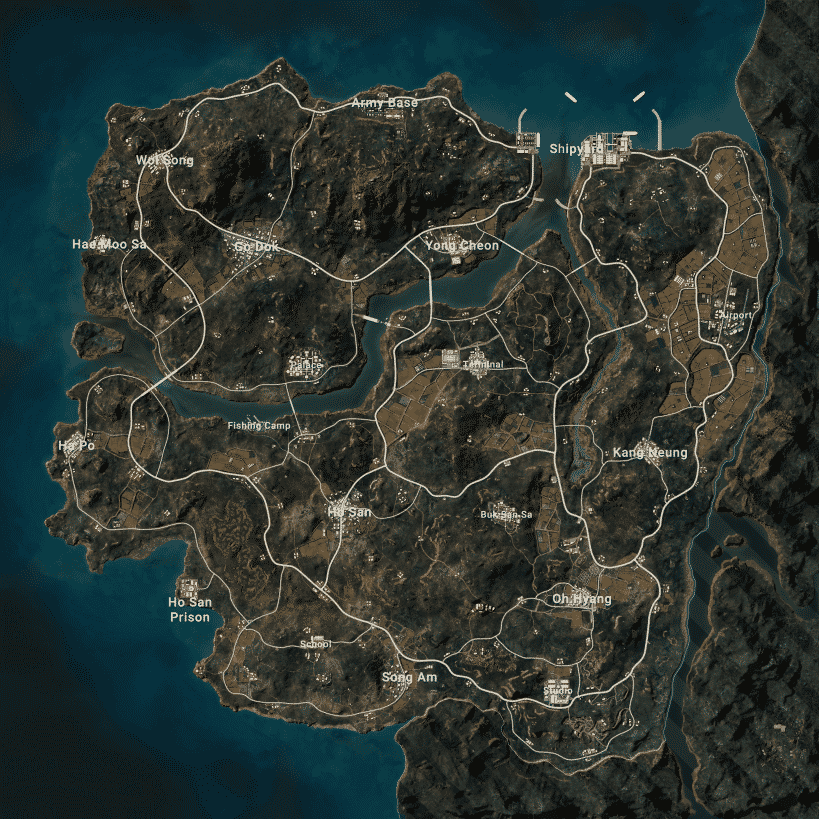
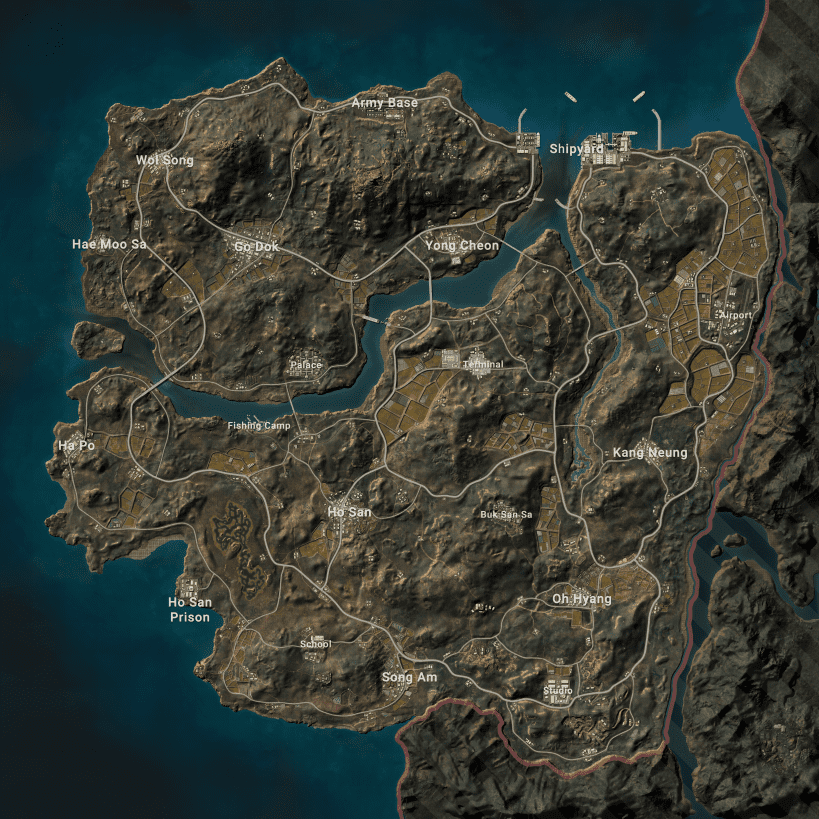
1. Map Update (Sanhok, Deston, Taego) 2. map data edit 3. bug fix: pymysql.escape_string is not Found 4. bug fix: pubgpy.enum return string, when load "Deston"

diff --git a/utils/cache.py b/utils/cache.py
@@ -18,6 +18,7 @@ along with PUBG BOT.  If not, see <http://www.gnu.org/licenses/>.
 """
 import asyncio
 import pymysql
+import pymysql.converters
 import aiomysql
 import json
 import inspect
@@ -130,11 +131,11 @@ class CachePlayData(CacheData):
         cls = data.type_class
         cur = await self.database.get_cursor(aiomysql.cursors.DictCursor)
         if update:
-            command = pymysql.escape_string(
+            command = pymysql.converters.escape_string(
                 "UPDATE {} SET player_data=%s WHERE player_id=%s and season = %s".format(self._get_mode(cls))
             )
         else:
-            command = pymysql.escape_string(
+            command = pymysql.converters.escape_string(
                 "INSERT INTO {}(player_data, player_id, season) value (%s, %s, %s)".format(self._get_mode(cls))
             )
         await cur.execute(command, (self._dump_dict(data.data), player_id, season))
@@ -151,7 +152,7 @@ class CachePlayData(CacheData):
         season = season.id if isinstance(season, Season) else season
         player_id = player_id.id if isinstance(player_id, player.Player) else player_id
         cur = await self.database.get_cursor(aiomysql.cursors.DictCursor)
-        command = pymysql.escape_string(
+        command = pymysql.converters.escape_string(
             "SELECT player_data FROM {} WHERE player_id = %s AND season = %s".format(self._get_mode(cls))
         )
         await cur.execute(command, (player_id, season))

diff --git a/cogs/map.py b/cogs/map.py
@@ -121,9 +121,9 @@ class Map:
         await ctx.send(file=map_file, embed=self.embed)
         return
 
-    @interaction.command(name="테이고", description="배틀그라운드 데스턴 맵에 대해 볼 수 있습니다.")
+    @interaction.command(name="데스턴", description="배틀그라운드 데스턴 맵에 대해 볼 수 있습니다.")
     @permission(4)
-    async def taego(self, ctx):
+    async def deston(self, ctx):
         map_file = discord.File(directory + "/assets/Maps/Deston_Main_Low_Res.png")
         add_map_file('Deston', self.embed)
         await ctx.send(file=map_file, embed=self.embed)

diff --git a/module/pubgpy/enums.py b/module/pubgpy/enums.py
@@ -81,6 +81,7 @@ class MapName(Enum):
     vikendi = "DihorOtok_Main"
     erangel_old = "Erangel_Main"
     haven = "Heaven_Main"
+    deston = "Kiki_Main"
     camp_jackal = "Range_Main"
     sanhok = "Savage_Main"
     karakin = "Summerland_Main"
